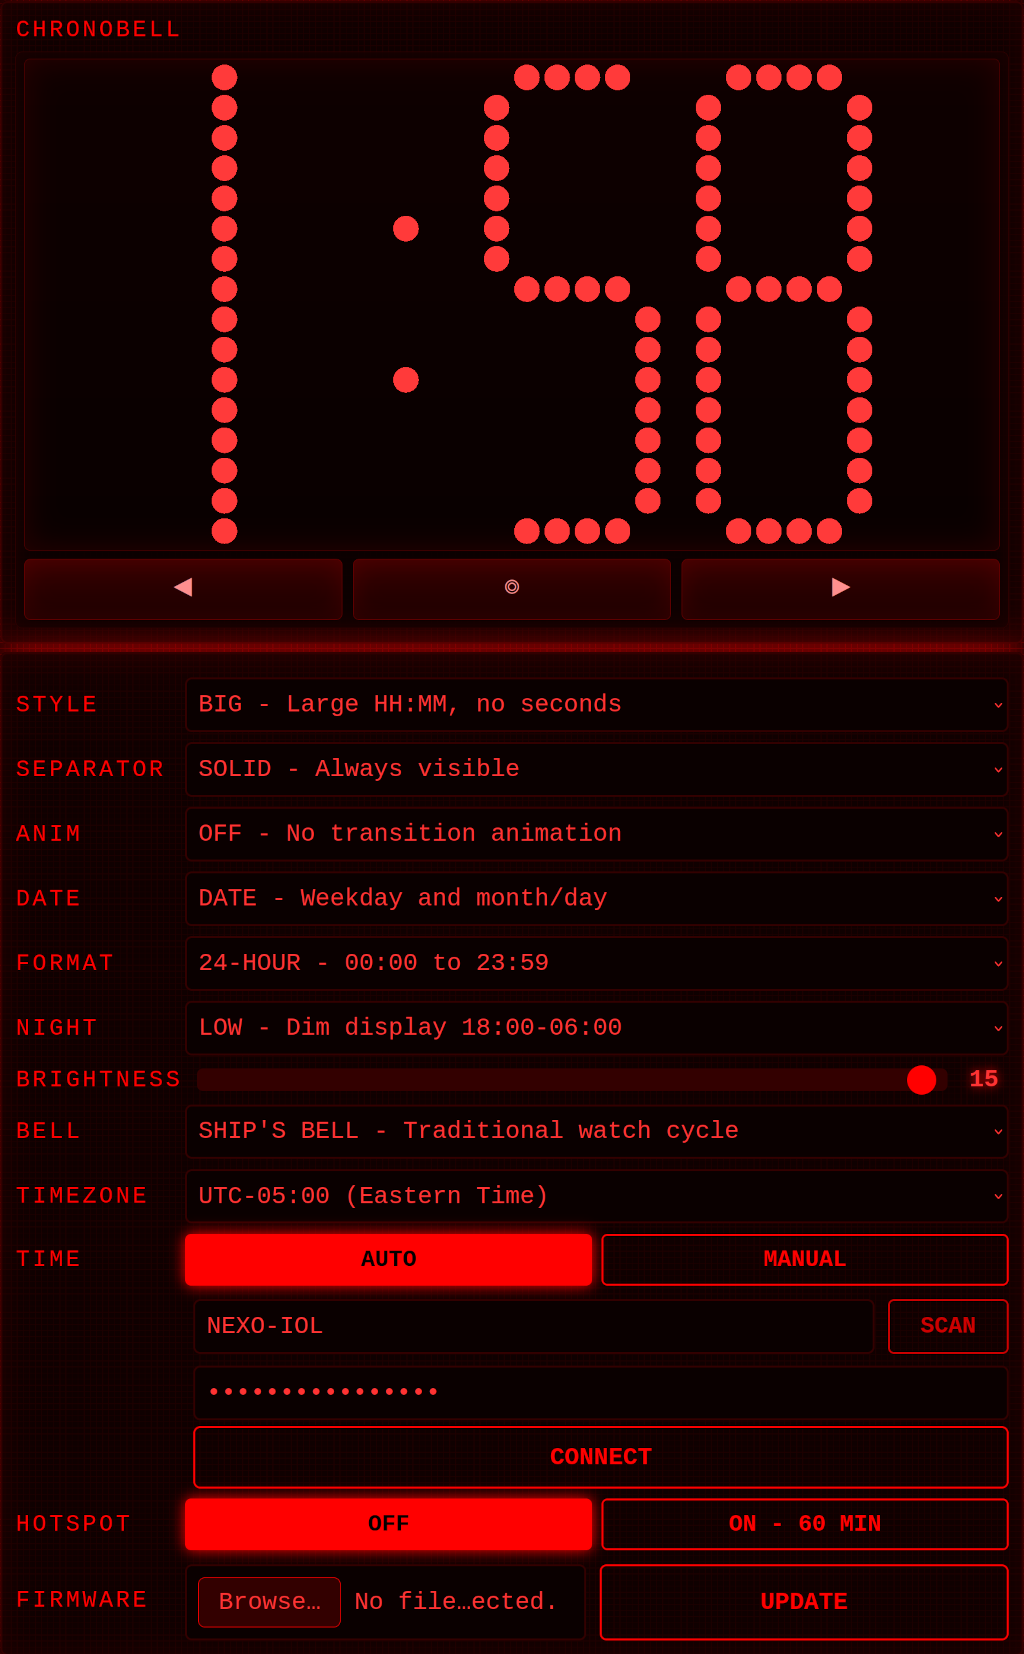
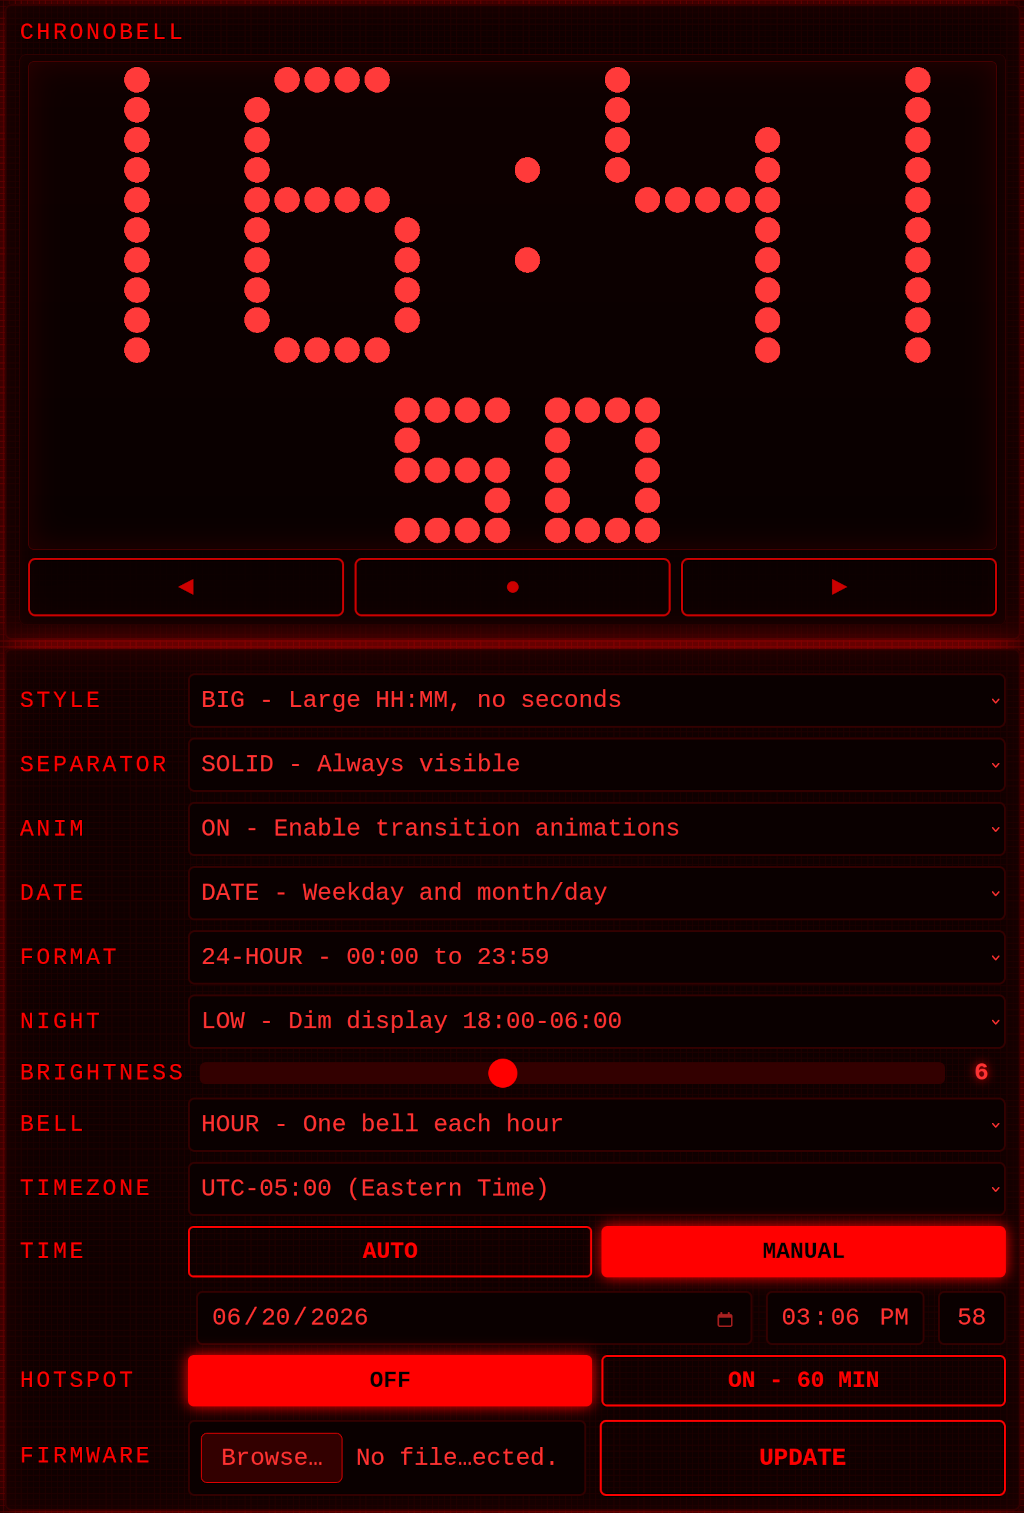
Update README for ANIM toggle rename and transition config changes
- ANIM menu: OFF / MORPH → OFF / ON
- Remove obsolete ENABLE_TRANSITIONS entry, document DIGIT_TRANSITIONS
  and SCREEN_TRANSITION instead
- ANIM description now covers both digit morph and screen retune

Changed region(s): [[0.0, 0.0, 1.0, 1.0], [0.4688, 0.0311, 0.625, 0.1864], [0.7188, 0.497, 0.8125, 0.5281]]

diff --git a/README.md b/README.md
@@ -137,7 +137,7 @@ When night mode turns the display off, any touch wakes it for a minute.
 | Item | Choices | What it sets |
 |------|---------|-------------|
 | STYLE | RND / BIG / INFO / WORD / ROMA / BIN / DRIFT | Clock style; drift is the mode that makes now feel less fixed |
-| ANIM | OFF / MORPH | Enable or disable clock transition animation |
+| ANIM | OFF / ON | Enable or disable clock transitions |
 | INFO | SEC / DECI / DATE / WDAY / ALT | Second-line choice for the DATA style |
 | DATE | DATE / YEAR / MOON / ZOD / CZOD | Extra info shown in the date view |
 | FORMAT | 24H / 12H | 24-hour or AM/PM |
@@ -147,7 +147,7 @@ When night mode turns the display off, any touch wakes it for a minute.
 | SETTIME | AUTO / MANUAL | Time source - automatic (NTP + RTC) or manual entry |
 | HOTSPOT | OFF / ON | Turn the web config portal on or off |
 
-Hold center to enter the menu, left/right to browse, and tap center to edit. Each confirm saves the current step immediately. STYLE has a second step for clocks with a separator: BIG, INFO, and DRIFT offer SOLID or BLINK. INFO first opens a second-line chooser labeled DATA, then the separator step labeled COLON. Each style remembers its own separator choice. ANIM toggles between OFF and MORPH. WORD, ROMA, BIN, and RND save immediately because they do not expose a separator choice. SETTIME also saves each confirmed step, so aborting mid-flow keeps the already confirmed values.
+Hold center to enter the menu, left/right to browse, and tap center to edit. Each confirm saves the current step immediately. STYLE has a second step for clocks with a separator: BIG, INFO, and DRIFT offer SOLID or BLINK. INFO first opens a second-line chooser labeled DATA, then the separator step labeled COLON. Each style remembers its own separator choice. ANIM toggles between OFF and ON. When ON, Animations transition smoothly between views (e.g., digit morphs, screen retune effect) as long as the engine is compiled in. WORD, ROMA, BIN, and RND save immediately because they do not expose a separator choice. SETTIME also saves each confirmed step, so aborting mid-flow keeps the already confirmed values.
 
 ### Setting the time manually
 
@@ -202,7 +202,8 @@ Open `Config.h` to adjust these:
 | `TIME_SYNC_INTERVAL_MINUTES` | `60` | How often NTP re-syncs |
 | `RND_STYLE_INTERVAL_HOURS` | `24` | RND change interval aligned to local midnight (`3` = 00:00, 03:00, 06:00...) |
 | `HOTSPOT_TIMEOUT_MINUTES` | `0` | Auto-stop hotspot after N minutes (`0` = stays on) |
-| `ENABLE_TRANSITIONS` | `0` | Build-time support for transition code; runtime `ANIM` selects off or morph |
+| `DIGIT_TRANSITIONS` | `1` | Set to `0` to remove per-digit morph engine (saves flash/RAM) |
+| `SCREEN_TRANSITION` | `1` | Set to `0` to remove screen retune engine (saves flash/RAM) |
 | `DRIFT_MAX_OFFSET_MINUTES` | `8` | Maximum distance from real time in either direction |
 | `DRIFT_PATTERN` | `0` | 0=behind↔ahead, 1=real→behind→real, 2=real→ahead→real |
 | `DRIFT_TIME_TO_MAX_OFFSET_MINUTES` | `60` | Minutes from real time to maximum offset; pattern 0 takes twice this between extremes |
